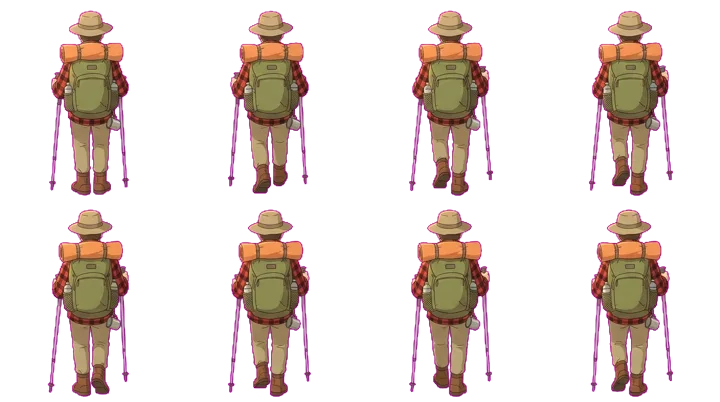
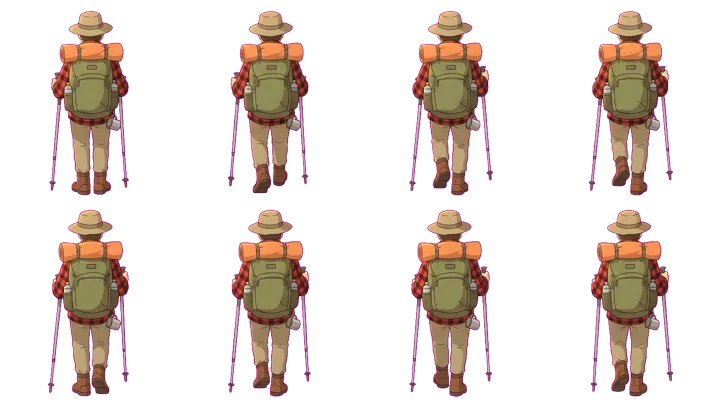
一般走路換成新的八格圖（正背面、正常抬腳）；版本 75

diff --git a/index.html b/index.html
@@ -12,7 +12,7 @@
 <link rel="preconnect" href="https://fonts.googleapis.com">
 <link rel="preconnect" href="https://fonts.gstatic.com" crossorigin>
 <link href="https://fonts.googleapis.com/css2?family=Iansui&family=LXGW+WenKai+TC&display=swap" rel="stylesheet">
-<link rel="stylesheet" href="css/style.css?v=74">
+<link rel="stylesheet" href="css/style.css?v=75">
 </head>
 <body>
 <div id="app">
@@ -91,19 +91,19 @@
   <input type="file" id="upFile" accept="image/*" hidden>
 </div>
 
-<script src="js/data.js?v=74"></script>
-<script src="js/motion.js?v=74"></script>
-<script src="js/audio.js?v=74"></script>
-<script src="js/clay.js?v=74"></script>
-<script src="js/art.js?v=74"></script>
-<script src="js/gl2d.js?v=74"></script>
-<script src="js/trail.js?v=74"></script>
-<script src="js/worldmap.js?v=74"></script>
-<script src="js/hud.js?v=74"></script>
-<script src="js/game.js?v=74"></script>
-<script src="js/config.js?v=74"></script>
-<script src="js/plaza.js?v=74"></script>
-<script src="js/social.js?v=74"></script>
+<script src="js/data.js?v=75"></script>
+<script src="js/motion.js?v=75"></script>
+<script src="js/audio.js?v=75"></script>
+<script src="js/clay.js?v=75"></script>
+<script src="js/art.js?v=75"></script>
+<script src="js/gl2d.js?v=75"></script>
+<script src="js/trail.js?v=75"></script>
+<script src="js/worldmap.js?v=75"></script>
+<script src="js/hud.js?v=75"></script>
+<script src="js/game.js?v=75"></script>
+<script src="js/config.js?v=75"></script>
+<script src="js/plaza.js?v=75"></script>
+<script src="js/social.js?v=75"></script>
 <script>if ("serviceWorker" in navigator) addEventListener("load", () => navigator.serviceWorker.register("sw.js").catch(() => {}));</script>
 </body>
 </html>

diff --git a/sw.js b/sw.js
@@ -1,7 +1,7 @@
 // 山行小日子：離線快取。程式與頁面「先抓網路、失敗才用快取」，所以更新會馬上生效；音樂圖示則先用快取。
 // 兩個快取：CACHE 放程式和頁面，每次改版換新名字；ART_CACHE 放美術圖和聲音，名字永遠不變，改版也不清掉，
 // 玩家只會下載有換過的圖和新圖（美術圖網址帶 ?v=檔案指紋，圖換了網址才會變）。
-const CACHE = 'shanxing-v74';
+const CACHE = 'shanxing-v75';
 const ART_CACHE = 'shanxing-art';
 const isArt = u => /\/(audio|art)\//.test(u.pathname) && !/manifest\.json$/.test(u.pathname);
 self.addEventListener('install', e => { self.skipWaiting(); });
